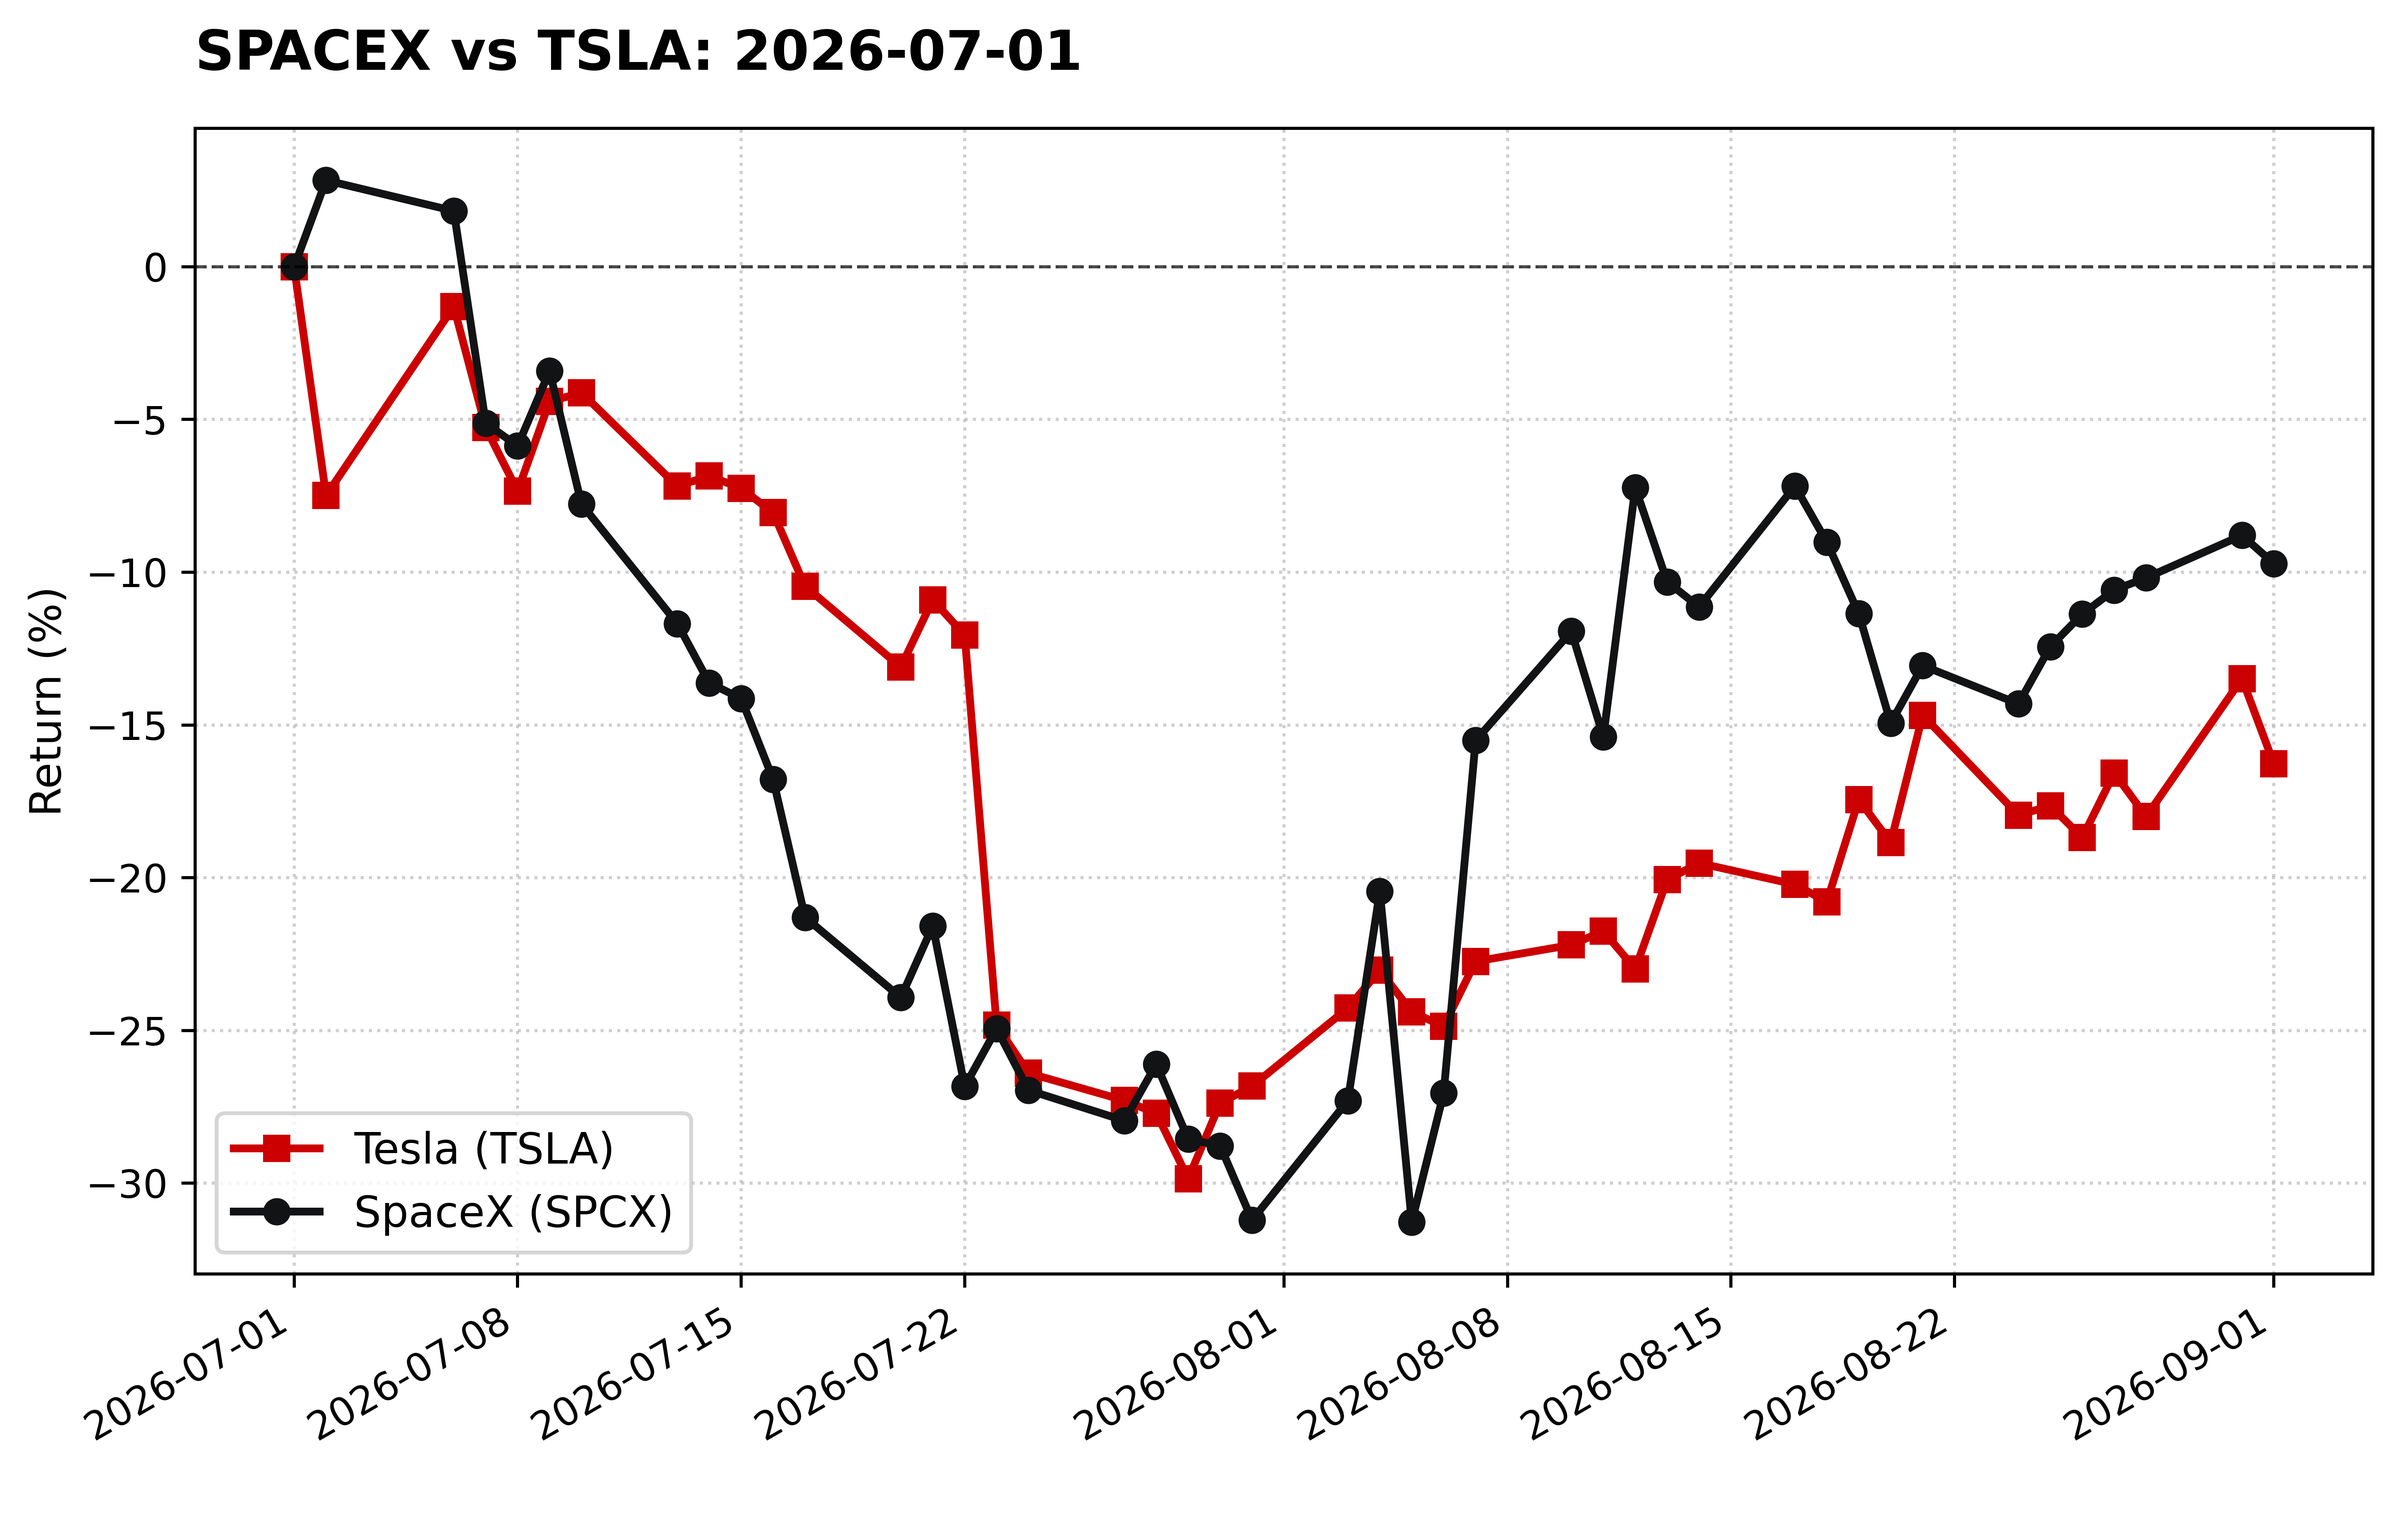
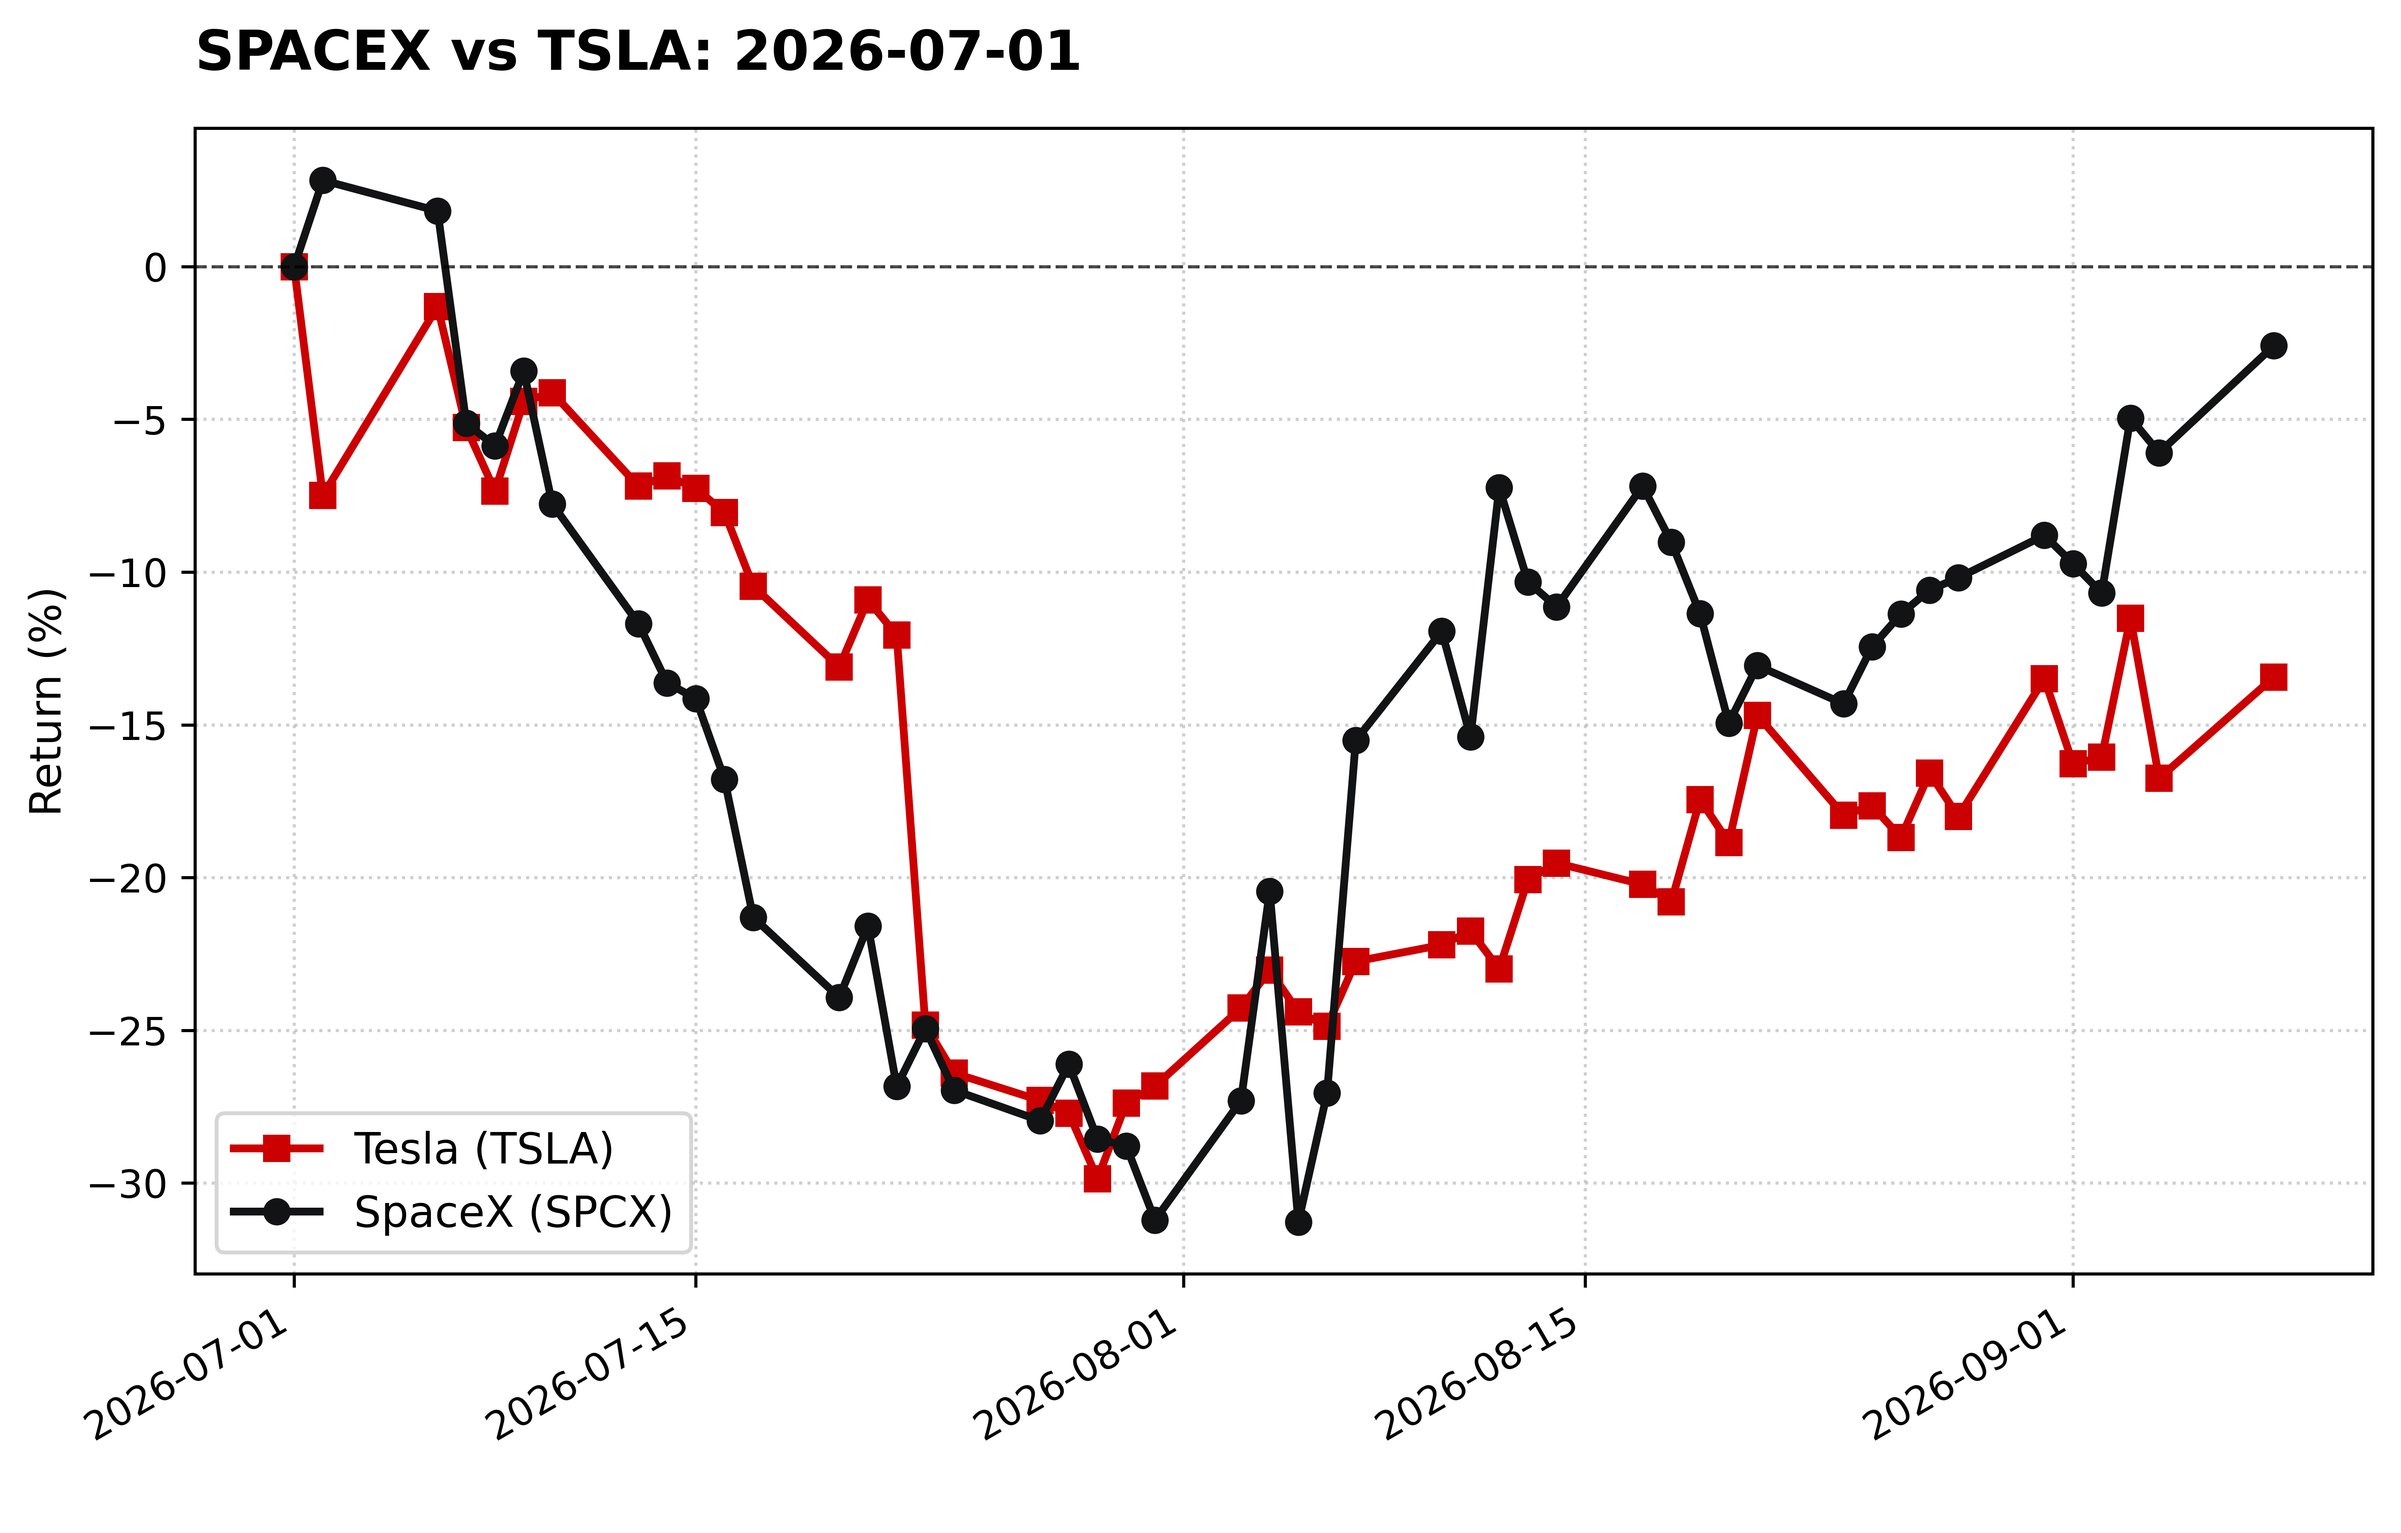
Initial commit

diff --git a/elongate.py b/elongate.py
@@ -5,7 +5,7 @@ import pandas as pd
 # 1. Define the tickers and the timeframe
 tickers = ["TSLA", "SPCX"]
 start_date = "2026-07-01"
-end_date = "2026-09-01"  # Requested inclusive end date
+end_date = "2026-09-09"  # Requested inclusive end date
 
 # yfinance treats the `end` parameter as exclusive. To include `end_date`
 # in the downloaded range, add one day to the end date.

diff --git a/spcx_tsla.py b/spcx_tsla.py
@@ -9,7 +9,7 @@ import yfinance as yf
 
 # Fetch data starting from June 22, 2026
 start_date = "2026-06-12"
-end_date = "2026-09-01"  # Requested inclusive end date 
+end_date = "2026-09-09"  # Requested inclusive end date 
 
 # yfinance treats the `end` parameter as exclusive. To include `end_date`,
 # add one day and use that as the `end` argument.
